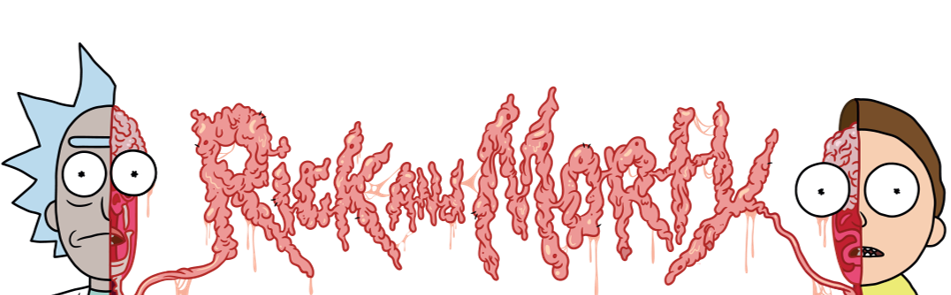
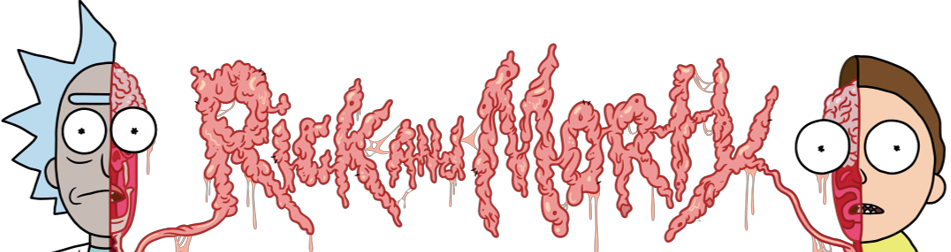
overlay style

diff --git a/src/style.css b/src/style.css
@@ -1,35 +1,21 @@
 body{
-  margin-top: 0px;
-  margin-left: 80px;
-  margin-right: 80px;
-  display: flex;
-  flex-direction: column;
-  justify-content: flex-start;
-  align-items: center;
+  display: grid;
+  justify-content: center;
   background-image: url(stars.gif);
-  background-size: cover;
-  background-repeat: no-repeat;
   }
-.firgureSesos{
-  position: absolute;
-  top: 0%;
+.backgroundSpace{
+  position: relative;
+  background-image: url(space1.png);
+  background-repeat: no-repeat;
+  background-position: center;
+  display: grid;
+  justify-items: center;
 }
 .sesos{
-  top: -50px;
-  margin: 0px;
-  position: relative;
   width: 1000px;
   z-index: 20;
 }
-.space{
-  position: absolute;
-  top: 10%;
-  opacity: 50%;
-}
-nav{
-  position: fixed;
-  /* position: absolute; */
-  width: 800px;
+.nav{
   height: 45px;
   top: 265px;
   background: rgba(0, 0, 0, 0.5);
@@ -41,6 +27,7 @@ nav{
   justify-content: space-between;
   align-items: center;
   z-index: 30;
+  margin: 10px;
 }
 .search{
   height: 30px;
@@ -55,7 +42,6 @@ nav{
 }
 .search:hover{
   border-color: chartreuse;
-
 }
 ::placeholder{
   font-size: large;
@@ -258,52 +244,40 @@ p{
   color: #fff;
   display: none; /* Hidden by default */
   position: fixed; /* Sit on top of the page content */
-  width: 100%; /* Full width (cover the whole page) */
-  height: 100%; /* Full height (cover the whole page) */
-  background-color: rgba(0, 0, 0, 0.541);
-  background-image: url(portal.png);
-  background-size: 20%;
-  background-repeat: no-repeat;
-  background-position: top;
+  width: fit-content; /* Full width (cover the whole page) */
+  height: fit-content; /* Full height (cover the whole page) */
+  background-color: rgba(0, 0, 0, 0.842);
   z-index: 40;
   cursor: pointer;
   border: 4px solid rgba(74, 19, 117, 0.6);
-  /* width: 300px;
-  height: 200px;  */
-
-  /* display: flex;
-  flex-direction: column;
-  justify-content: flex-end;
-  align-items: center; */
 }
 .img{
-  margin-top: 0px;
-  width: 15%;
+  margin: 5px;
+  width: 280px;
   border-radius: 130px;
   box-shadow: 0px 8px 16px 0px rgb(255, 255, 255);
 
 }
 #info{
-  /* border: 4px solid rgba(74, 19, 117, 0.6);
-  width: 300px;
-  height: 200px; */
   display: flex;
   flex-direction: column;
-  flex-wrap: wrap;
-  justify-content: flex-end;
-  align-content: center;
-}
-p{
-  display: flex;
-  flex-direction: row;
+  align-items: center;
 }
 h2{
   color: chartreuse;
-  font-size: smaller;
-}
-#info h2 h3{
-  display: inline;
+  font-size: 32px;
+  /* margin-right: 5px;
+  margin-left: 20px; */
+  margin: 10px 5px 5px 20px;
 }
 h3{
-  font-size: smaller;
+  margin: 10px 20px 5px 0px;
+  font-size: 32px;
+  /* margin-right: 20px; */
+}
+div{
+  display: flex;
+  flex-direction: row;
+  align-items: center;
+  justify-content: center
 }

diff --git a/src/data.js b/src/data.js
@@ -8,14 +8,14 @@ export const drawResults = (character) => {
 export const characterInfo = (information) => {
   return `<section id="info">
   <img src="${information.image}" alt="" class="img">
-  <h2>Name:</h2> <h3>${information.name}</h3>
-  <p><h2>Specie:</h2><h3>${information.species}</h3></p>
-  <h2>Gender:</h2> <h3>${information.gender}</h3>
-  <h2>Status:</h2> <h3>${information.status}</h3>
-  <h2>Type:</h2> <h3>${information.type}</h3>
-  <h2>Origin:</h2> <h3>${information.origin.name}</h3>
-  <h2>Location:</h2> <h3>${information.location.name}</h3>
-  <h2>Episode:</h2> <h3>${information.episode.length}</h3>
+  <div><h2>Name:</h2> <h3>${information.name}</h3></div>
+  <div><h2>Specie:</h2><h3>${information.species}</h3></div>
+  <div><h2>Gender:</h2> <h3>${information.gender}</h3></div>
+  <div><h2>Status:</h2> <h3>${information.status}</h3></div>
+  <div><h2>Type:</h2> <h3>${information.type}</h3></div>
+  <div><h2>Origin:</h2> <h3>${information.origin.name}</h3></div>
+  <div><h2>Location:</h2> <h3>${information.location.name}</h3></div>
+  <div><h2>Episode:</h2> <h3>${information.episode.length}</h3></div>
   </section>`;
 };
 

diff --git a/src/index.html b/src/index.html
@@ -12,16 +12,11 @@
     />
   </head>
   <body>
-    <div class="figureSesos">
-      <img src="sesos.png" alt="" class="sesos" />
-    </div>
-    <figure class="space">
-      <img src="space.png" alt="" class="space" />
-    </figure>
-    <nav id="nav">
+    <section class="backgroundSpace">
+    <img src="sesos.png" alt="" class="sesos" />
+    <section class="nav">
       <img src="ship.png" alt="" class="ship">
       <input type="text" name="" class="search" placeholder="Buscar" />
-
       <div class="dropdown">
         <button class="dropbtn">Episodios</button>
       </div>
@@ -50,7 +45,7 @@
           <button class="subcat" >Desconocido</button>
         </div>
       </div>
-    </nav>
+    </section>
 
     <section class="specieSection" id="specieSection"></section>
     <section class="drawSearch"></section>
@@ -67,5 +62,6 @@
 
     <div id="root"></div>
     <script src="main.js" type="module"></script>
+  </section>
   </body>
 </html>

diff --git a/src/main.js b/src/main.js
@@ -13,7 +13,7 @@ function searchName() {
     for (let names of data.results) {
       let drawName = names.name.toLowerCase();
       if (drawName.indexOf(boxValue) !== -1) {
-        // console.log(drawResults(names));
+        console.log(drawResults(names));
 
         drawSearch.innerHTML += drawResults(names);
       }
